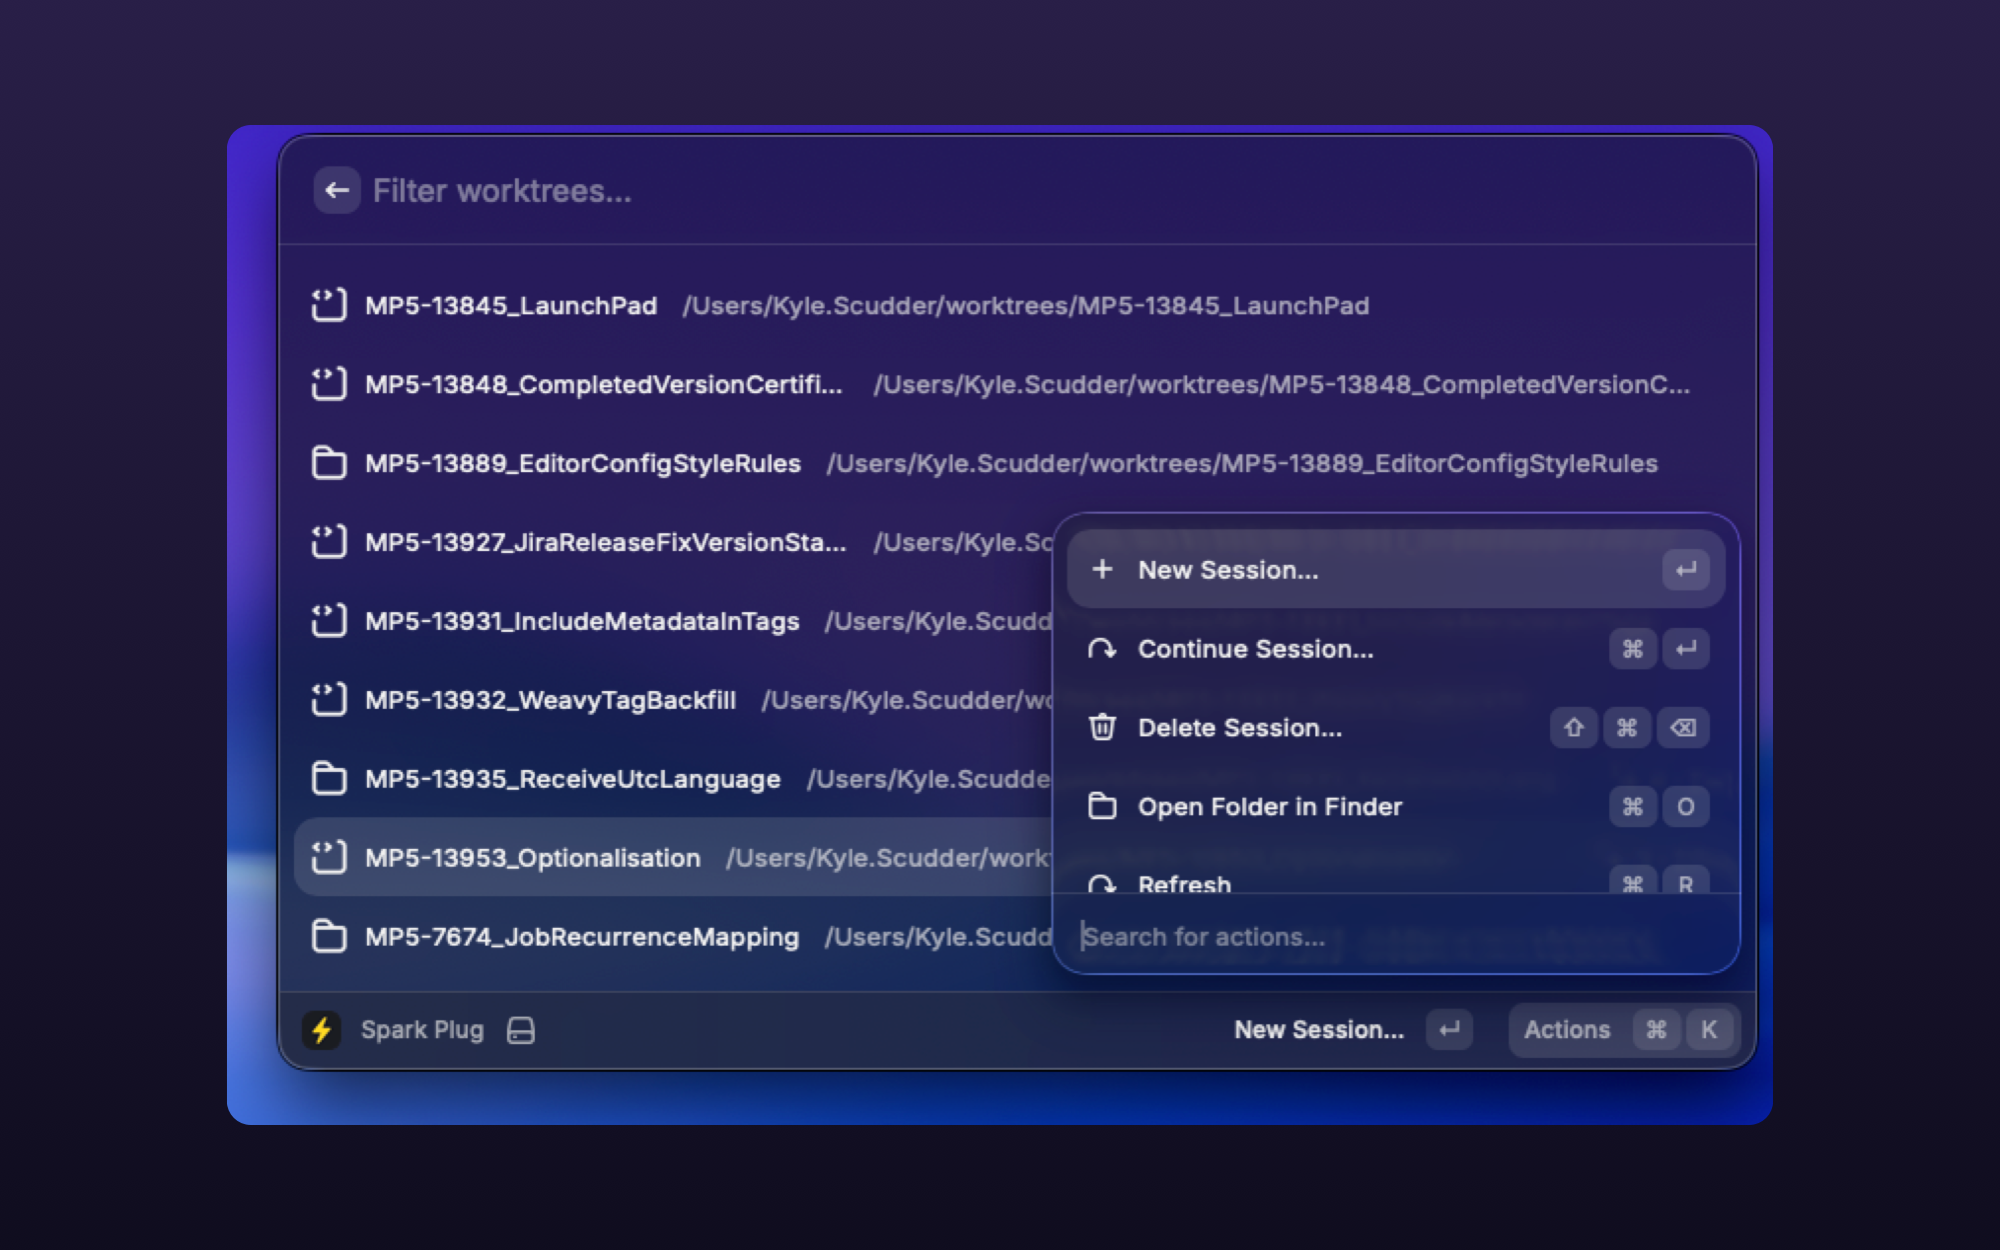
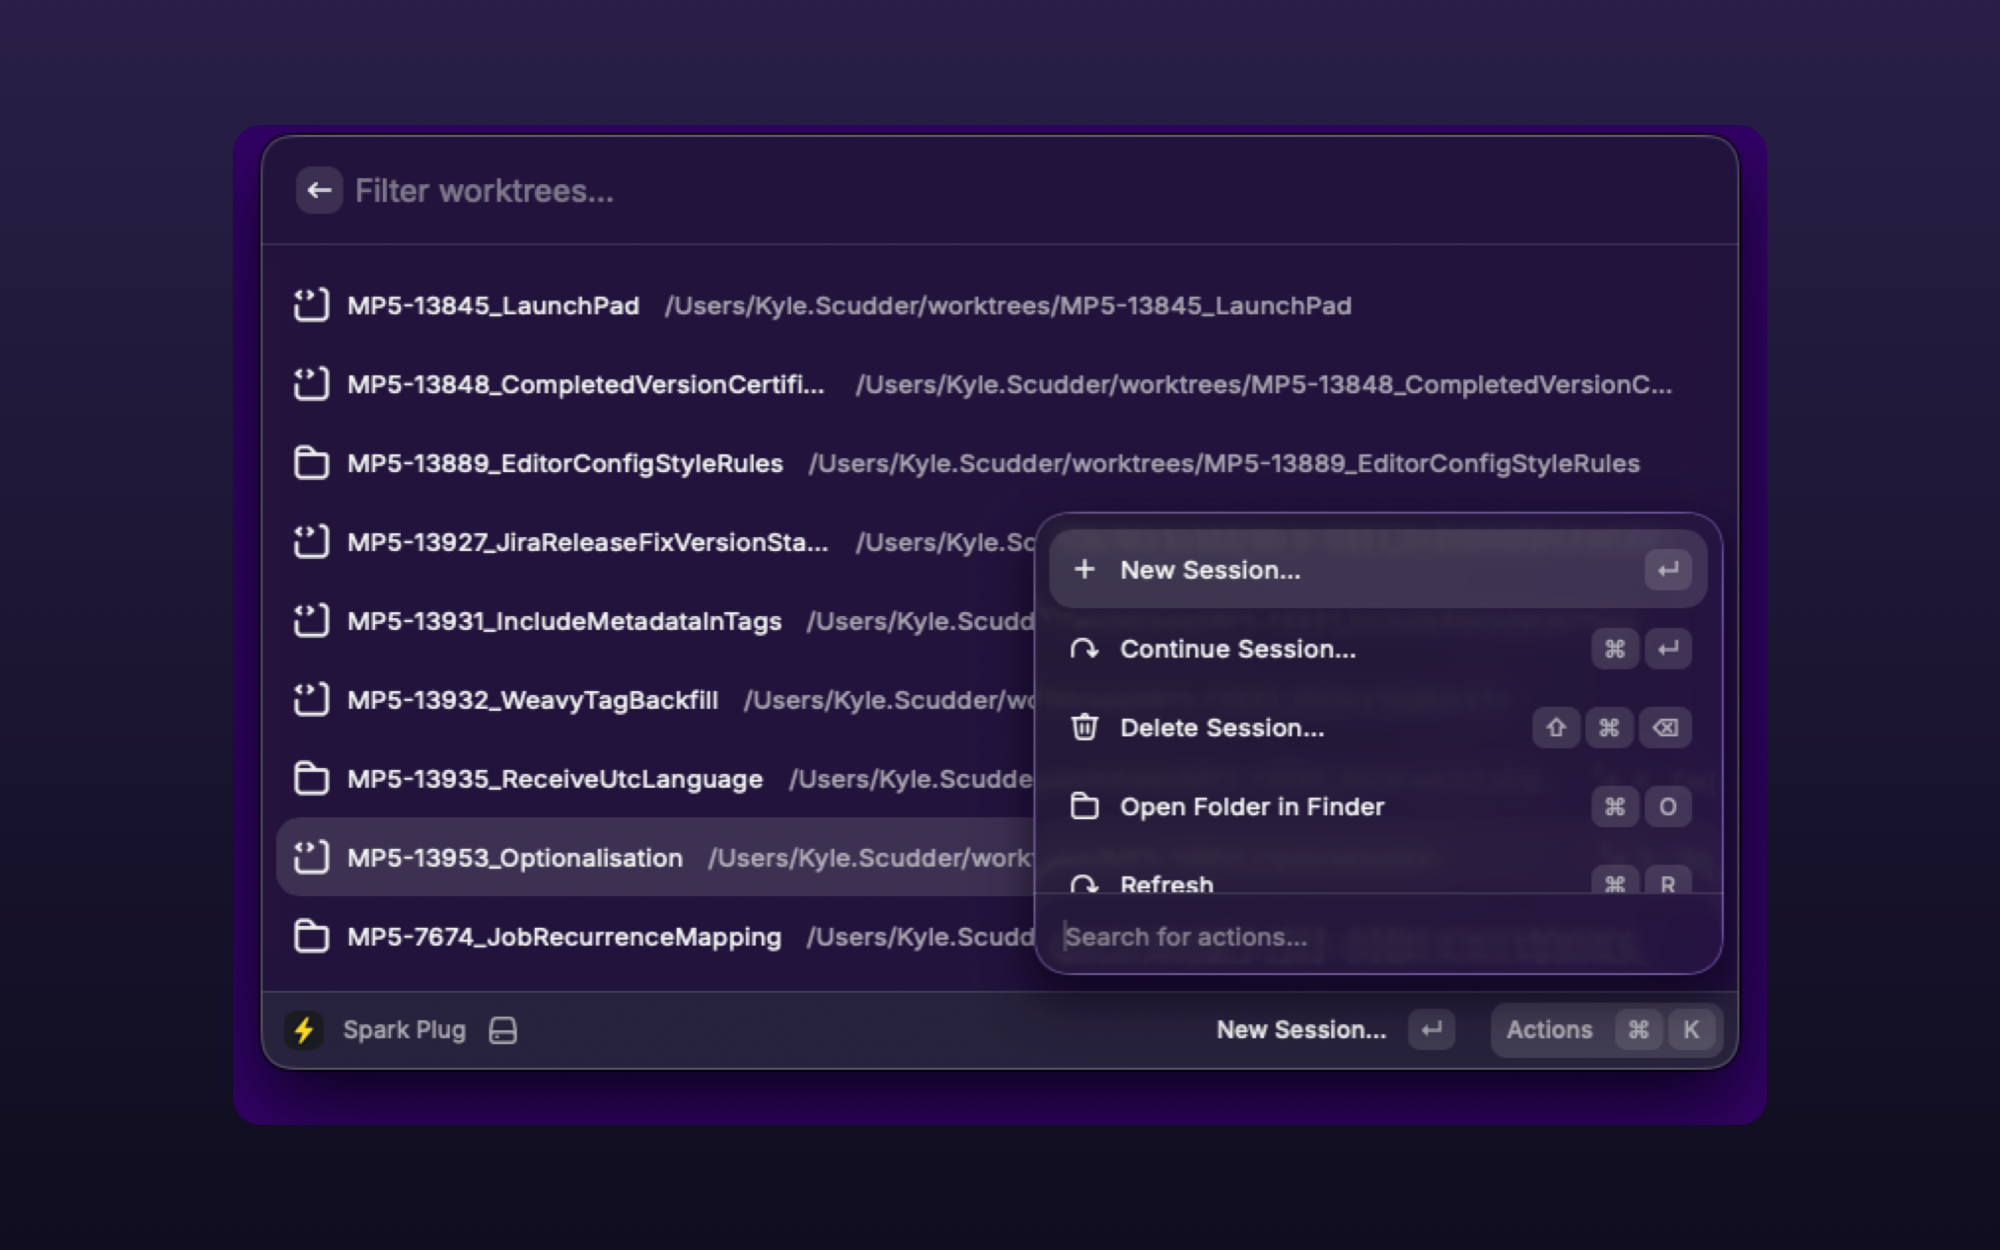
Add 3 store screenshots; switch compositor to uniform-border trim

diff --git a/scripts/make-screenshots.swift b/scripts/make-screenshots.swift
@@ -1,11 +1,9 @@
 #!/usr/bin/env swift
 import AppKit
 
-// Composites each provided screenshot onto a 2000×1250 Raycast-purple gradient
-// canvas. Auto-detects the actual Raycast window inside the source PNG by
-// scanning from each edge inward for the first row/column whose pixels differ
-// from the corner sample (assumed to be desktop wallpaper). Applies a rounded-
-// corner clip when drawing so any residual corner pixels are hidden.
+// Trims the uniform border around a Raycast screenshot (whatever colour it is —
+// inferred from the corner pixel) and composites the result onto a 2000×1250
+// dark gradient with a rounded clip + soft drop shadow.
 //
 // Usage:
 //   swift scripts/make-screenshots.swift \
@@ -19,96 +17,107 @@ guard CommandLine.arguments.count > 1 else {
 let canvasW: CGFloat = 2000
 let canvasH: CGFloat = 1250
 
-func loadBitmap(at path: String) -> NSBitmapImageRep? {
-    let url = URL(fileURLWithPath: path)
-    guard let data = try? Data(contentsOf: url),
-          let rep = NSBitmapImageRep(data: data) else { return nil }
-    return rep
+struct FastBitmap {
+    let buf: [UInt8]
+    let width: Int
+    let height: Int
+
+    init?(_ rep: NSBitmapImageRep) {
+        let w = rep.pixelsWide
+        let h = rep.pixelsHigh
+        let bpr = w * 4
+        var buf = [UInt8](repeating: 0, count: bpr * h)
+        let ok = buf.withUnsafeMutableBufferPointer { ptr -> Bool in
+            guard let cs = CGColorSpace(name: CGColorSpace.sRGB),
+                  let cg = rep.cgImage,
+                  let ctx = CGContext(
+                    data: ptr.baseAddress,
+                    width: w, height: h,
+                    bitsPerComponent: 8, bytesPerRow: bpr,
+                    space: cs,
+                    bitmapInfo: CGImageAlphaInfo.premultipliedLast.rawValue
+                  )
+            else { return false }
+            ctx.draw(cg, in: CGRect(x: 0, y: 0, width: w, height: h))
+            return true
+        }
+        guard ok else { return nil }
+        self.buf = buf
+        self.width = w
+        self.height = h
+    }
+
+    /// (r, g, b) for the pixel at (x, y) with origin TOP-LEFT.
+    @inline(__always)
+    func rgb(_ x: Int, _ y: Int) -> (Double, Double, Double) {
+        // CGContext stores rows bottom-up; flip y to map to a top-left origin.
+        let row = height - 1 - y
+        let o = row * width * 4 + x * 4
+        return (
+            Double(buf[o]) / 255.0,
+            Double(buf[o + 1]) / 255.0,
+            Double(buf[o + 2]) / 255.0
+        )
+    }
 }
 
-/// Detects the bounding box of the Raycast window inside the source bitmap by
-/// scanning for the first non-wallpaper pixel from each edge. Returns the rect
-/// in pixel coordinates of the source.
-func detectWindowRect(_ rep: NSBitmapImageRep) -> NSRect {
-    let w = rep.pixelsWide
-    let h = rep.pixelsHigh
+/// Trims a uniform border. Samples the four corners to find the border colour,
+/// then scans each edge inward to find the first row/column whose pixels
+/// (mostly) differ from it. Returns the inner content rect.
+func trimUniformBorder(_ bmp: FastBitmap) -> NSRect {
+    let w = bmp.width
+    let h = bmp.height
 
-    // Sample wallpaper from a few corner pixels and take the mean as the
-    // reference colour. We pick (4,4) etc to avoid any anti-aliasing at the
-    // outermost edge.
-    let samples = [(4, 4), (w - 5, 4), (4, h - 5), (w - 5, h - 5)]
-    var rSum = 0.0, gSum = 0.0, bSum = 0.0
-    for (sx, sy) in samples {
-        if let c = rep.colorAt(x: sx, y: sy) {
-            rSum += c.redComponent
-            gSum += c.greenComponent
-            bSum += c.blueComponent
-        }
+    // Average the corner samples for the reference colour.
+    let corners = [(2, 2), (w - 3, 2), (2, h - 3), (w - 3, h - 3)]
+    var rs = 0.0, gs = 0.0, bs = 0.0
+    for (x, y) in corners {
+        let (r, g, b) = bmp.rgb(x, y)
+        rs += r; gs += g; bs += b
     }
-    let refR = CGFloat(rSum / Double(samples.count))
-    let refG = CGFloat(gSum / Double(samples.count))
-    let refB = CGFloat(bSum / Double(samples.count))
+    let refR = rs / 4, refG = gs / 4, refB = bs / 4
 
+    @inline(__always)
     func differs(_ x: Int, _ y: Int) -> Bool {
-        guard let c = rep.colorAt(x: x, y: y) else { return false }
-        let d = abs(c.redComponent - refR)
-              + abs(c.greenComponent - refG)
-              + abs(c.blueComponent - refB)
-        // Tight threshold: Raycast's translucent edge blends with the wallpaper,
-        // so we only count clearly darker (interior) pixels as "window". This
-        // crops through the glass halo to the solid content area.
-        return d > 0.55
+        let (r, g, b) = bmp.rgb(x, y)
+        return abs(r - refR) + abs(g - refG) + abs(b - refB) > 0.10
     }
 
-    // From each edge, find the first row/column with a streak of non-wallpaper
-    // pixels (avoids being fooled by isolated outliers like cursor glints).
-    let streak = 16
+    func rowHasContent(_ y: Int) -> Bool {
+        var hits = 0
+        for x in 0..<w {
+            if differs(x, y) {
+                hits += 1
+                if hits >= 24 { return true }
+            } else {
+                hits = 0
+            }
+        }
+        return false
+    }
+    func colHasContent(_ x: Int) -> Bool {
+        var hits = 0
+        for y in 0..<h {
+            if differs(x, y) {
+                hits += 1
+                if hits >= 24 { return true }
+            } else {
+                hits = 0
+            }
+        }
+        return false
+    }
 
-    var left = 0
-    for x in 0..<(w / 2) {
-        var hits = 0
-        for y in 0..<h {
-            if differs(x, y) { hits += 1; if hits >= streak { break } } else { hits = 0 }
-        }
-        if hits >= streak { left = x; break }
-    }
-    var right = w
-    for x in stride(from: w - 1, through: w / 2, by: -1) {
-        var hits = 0
-        for y in 0..<h {
-            if differs(x, y) { hits += 1; if hits >= streak { break } } else { hits = 0 }
-        }
-        if hits >= streak { right = x + 1; break }
-    }
     var top = 0
-    for y in 0..<(h / 2) {
-        var hits = 0
-        for x in 0..<w {
-            if differs(x, y) { hits += 1; if hits >= streak { break } } else { hits = 0 }
-        }
-        if hits >= streak { top = y; break }
-    }
-    var bottom = h
-    for y in stride(from: h - 1, through: h / 2, by: -1) {
-        var hits = 0
-        for x in 0..<w {
-            if differs(x, y) { hits += 1; if hits >= streak { break } } else { hits = 0 }
-        }
-        if hits >= streak { bottom = y + 1; break }
-    }
+    for y in 0..<h { if rowHasContent(y) { top = y; break } }
+    var bottom = h - 1
+    for y in stride(from: h - 1, through: 0, by: -1) { if rowHasContent(y) { bottom = y; break } }
+    var left = 0
+    for x in 0..<w { if colHasContent(x) { left = x; break } }
+    var right = w - 1
+    for x in stride(from: w - 1, through: 0, by: -1) { if colHasContent(x) { right = x; break } }
 
-    // Sanity guard — if detection found nothing, return full rect.
-    if right - left < 100 || bottom - top < 100 {
-        return NSRect(x: 0, y: 0, width: w, height: h)
-    }
-    // Push outward a few pixels to keep the rounded corners (we re-apply our
-    // own rounded clip when drawing) while still excluding the glass halo.
-    let pad = -4
-    let l = max(0, left + pad)
-    let r = min(w, right - pad)
-    let t = max(0, top + pad)
-    let b = min(h, bottom - pad)
-    return NSRect(x: l, y: t, width: r - l, height: b - t)
+    return NSRect(x: left, y: top, width: right - left + 1, height: bottom - top + 1)
 }
 
 for arg in CommandLine.arguments.dropFirst() {
@@ -120,16 +129,19 @@ for arg in CommandLine.arguments.dropFirst() {
     let outPath = parts[0]
     let srcPath = parts[1]
 
-    guard let srcRep = loadBitmap(at: srcPath) else {
+    guard let srcRep = NSBitmapImageRep(data: (try? Data(contentsOf: URL(fileURLWithPath: srcPath))) ?? Data()) else {
         FileHandle.standardError.write(Data("could not read \(srcPath)\n".utf8))
         continue
     }
     let srcW = srcRep.pixelsWide
     let srcH = srcRep.pixelsHigh
 
-    // colorAt indexes pixels with origin at top-left. Convert to bottom-up
-    // for drawing rect.
-    let cropPx = detectWindowRect(srcRep)
+    guard let bmp = FastBitmap(srcRep) else {
+        FileHandle.standardError.write(Data("could not access bitmap data for \(srcPath)\n".utf8))
+        continue
+    }
+
+    let cropPx = trimUniformBorder(bmp)
     let cropFlipped = NSRect(
         x: cropPx.minX,
         y: CGFloat(srcH) - cropPx.maxY,
@@ -137,7 +149,7 @@ for arg in CommandLine.arguments.dropFirst() {
         height: cropPx.height
     )
 
-    // Crop the source by drawing it offset into a fresh image at the crop size.
+    // Crop the source into a fresh image at the crop size.
     let cropped = NSImage(size: NSSize(width: cropPx.width, height: cropPx.height))
     cropped.lockFocus()
     NSGraphicsContext.current?.imageInterpolation = .high
@@ -152,37 +164,36 @@ for arg in CommandLine.arguments.dropFirst() {
     cropped.unlockFocus()
 
     // Build the canvas.
-    guard let rep = NSBitmapImageRep(
+    guard let outRep = NSBitmapImageRep(
         bitmapDataPlanes: nil, pixelsWide: Int(canvasW), pixelsHigh: Int(canvasH),
         bitsPerSample: 8, samplesPerPixel: 4, hasAlpha: true,
         isPlanar: false, colorSpaceName: .deviceRGB,
         bytesPerRow: 0, bitsPerPixel: 32
     ) else { fatalError("rep") }
-    rep.size = NSSize(width: canvasW, height: canvasH)
+    outRep.size = NSSize(width: canvasW, height: canvasH)
 
-    guard let ctx = NSGraphicsContext(bitmapImageRep: rep) else { fatalError("ctx") }
+    guard let ctx = NSGraphicsContext(bitmapImageRep: outRep) else { fatalError("ctx") }
     let prev = NSGraphicsContext.current
     NSGraphicsContext.current = ctx
     ctx.imageInterpolation = .high
 
-    // Dark backdrop — keeps the Raycast window the visual focus and avoids
-    // a "two-tone" clash with the window's own translucent purple glass.
+    // Dark gradient backdrop.
     let topColor = NSColor(red: 0.06, green: 0.05, blue: 0.12, alpha: 1.0)
     let bottomColor = NSColor(red: 0.16, green: 0.12, blue: 0.28, alpha: 1.0)
     let gradient = NSGradient(starting: topColor, ending: bottomColor)!
     gradient.draw(in: NSRect(x: 0, y: 0, width: canvasW, height: canvasH), angle: 90)
 
-    // Compute draw rect, preserving aspect ratio.
+    // Compute draw rect preserving aspect ratio.
     let marginX: CGFloat = 200
     let marginY: CGFloat = 125
     let maxW = canvasW - marginX * 2
     let maxH = canvasH - marginY * 2
-    let srcAspect = cropped.size.width / cropped.size.height
+    let aspect = cropped.size.width / cropped.size.height
     var drawW = maxW
-    var drawH = drawW / srcAspect
+    var drawH = drawW / aspect
     if drawH > maxH {
         drawH = maxH
-        drawW = drawH * srcAspect
+        drawW = drawH * aspect
     }
     let drawRect = NSRect(
         x: (canvasW - drawW) / 2,
@@ -191,25 +202,20 @@ for arg in CommandLine.arguments.dropFirst() {
         height: drawH
     )
 
-    // Soft drop shadow under the window.
+    // Drop shadow + rounded clip.
     NSGraphicsContext.saveGraphicsState()
     let shadow = NSShadow()
-    shadow.shadowColor = NSColor(white: 0, alpha: 0.45)
-    shadow.shadowOffset = NSSize(width: 0, height: -12)
+    shadow.shadowColor = NSColor(white: 0, alpha: 0.5)
+    shadow.shadowOffset = NSSize(width: 0, height: -14)
     shadow.shadowBlurRadius = 60
     shadow.set()
-
-    // Rounded-corner clip so any residual wallpaper at the crop corners is hidden.
-    let cornerRadius: CGFloat = 24
-    let mask = NSBezierPath(roundedRect: drawRect, xRadius: cornerRadius, yRadius: cornerRadius)
-    mask.addClip()
-
+    NSBezierPath(roundedRect: drawRect, xRadius: 28, yRadius: 28).addClip()
     cropped.draw(in: drawRect, from: .zero, operation: .sourceOver, fraction: 1.0)
     NSGraphicsContext.restoreGraphicsState()
 
     NSGraphicsContext.current = prev
 
-    guard let png = rep.representation(using: .png, properties: [:]) else {
+    guard let png = outRep.representation(using: .png, properties: [:]) else {
         fatalError("png encode")
     }
     let outURL = URL(fileURLWithPath: outPath)
@@ -218,5 +224,5 @@ for arg in CommandLine.arguments.dropFirst() {
         withIntermediateDirectories: true
     )
     try png.write(to: outURL)
-    print("✓ \(outPath) — cropped source to \(Int(cropPx.width))×\(Int(cropPx.height)) (was \(srcW)×\(srcH))")
+    print("✓ \(outPath) — trimmed to \(Int(cropPx.width))×\(Int(cropPx.height)) from \(srcW)×\(srcH)")
 }